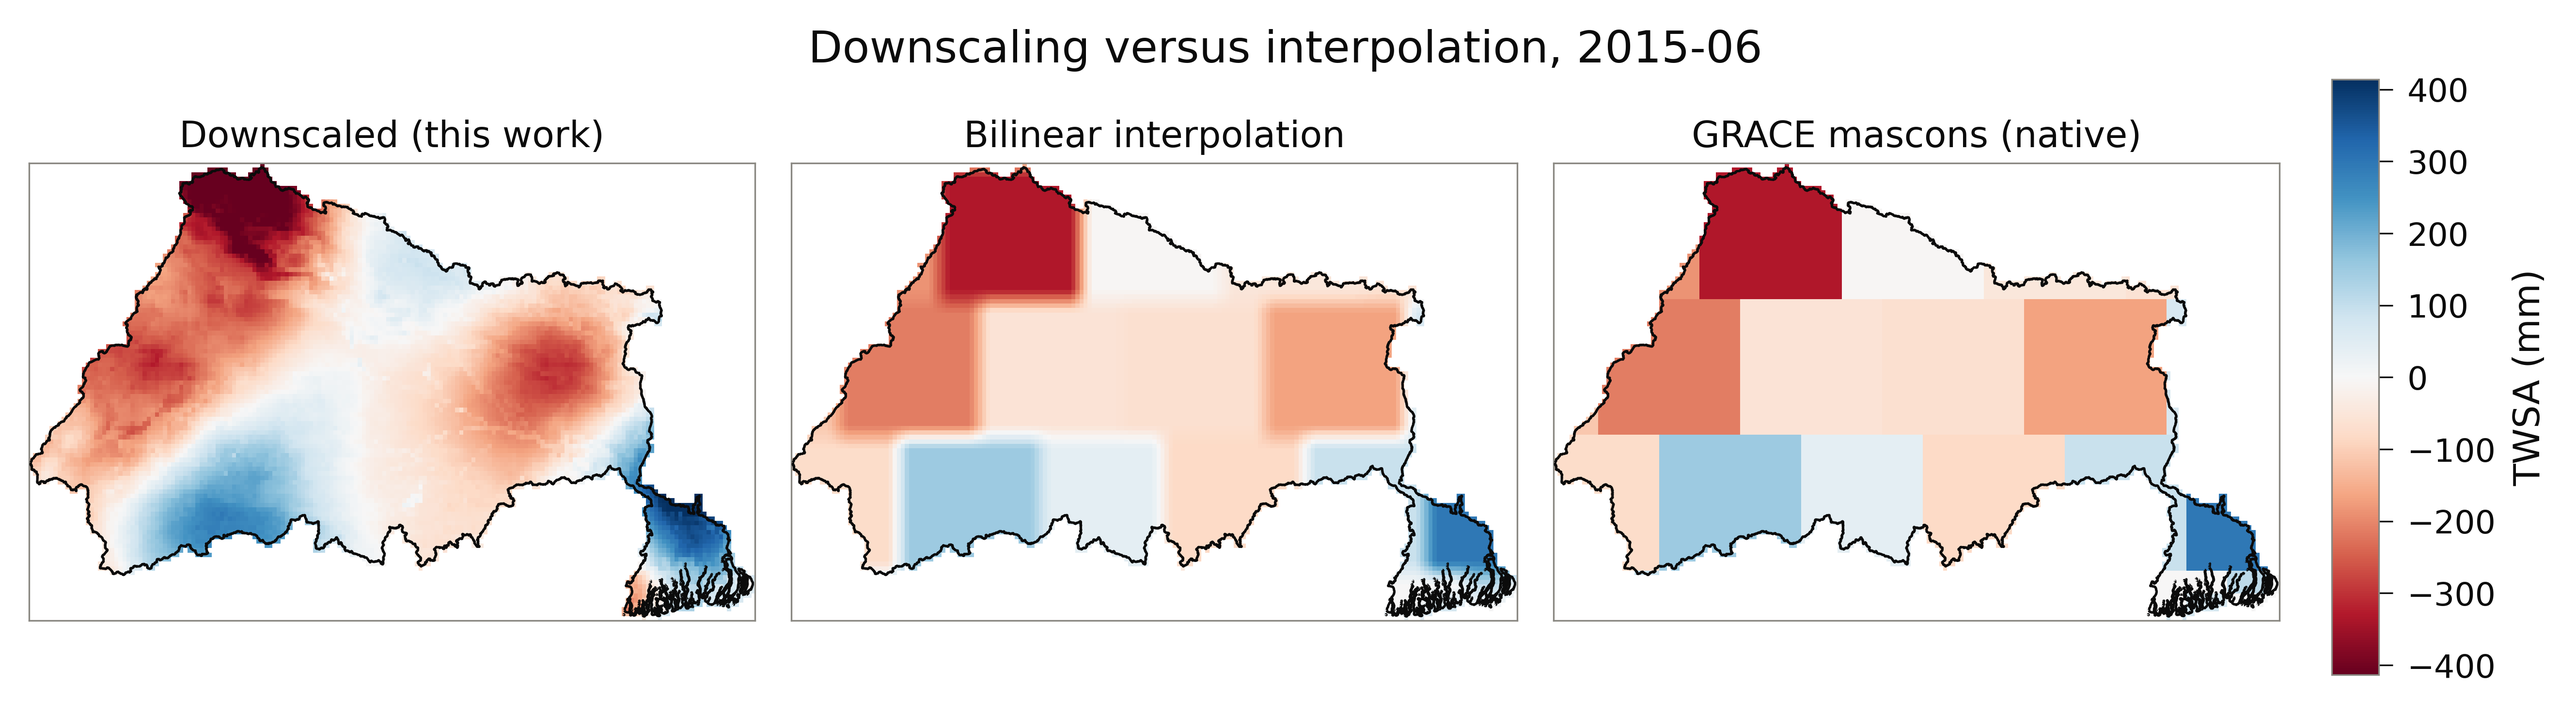
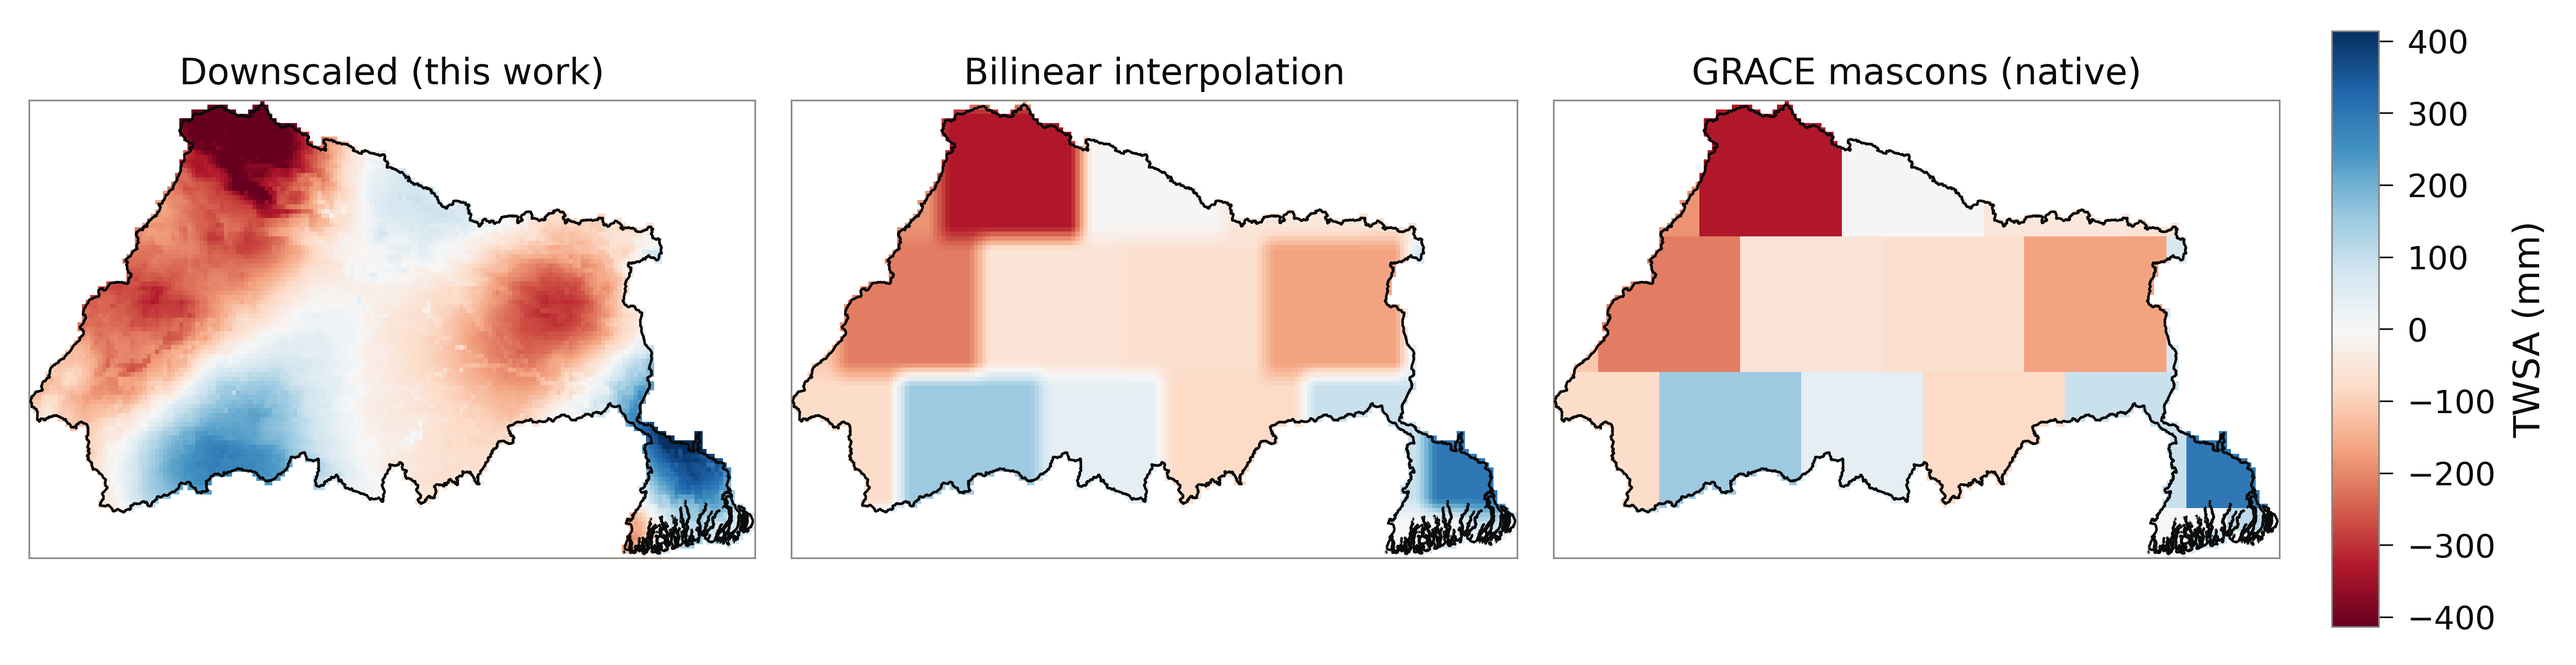
Citation and fig updates

diff --git a/figures/make_fig6_seasonal_cycle.py b/figures/make_fig6_seasonal_cycle.py
@@ -1,0 +1,83 @@
+"""
+Figure 6 -- the seasonal cycle, as the one file the journal takes.
+
+WHY THIS SCRIPT EXISTS
+----------------------
+Fig. 6 is two plates drawn by two different pipeline steps: the basin-mean
+annual cycle by `main/downscale_annual_cycle.py`, and the 0.1 degree seasonal
+means by `main/generate_gridded_maps.py`. The manuscript places them one above
+the other under a single caption ("Upper: ... Lower: ..."), but the journal
+wants one file per figure. This script stacks the two rendered plates into that
+file.
+
+WHY STACK PIXELS RATHER THAN REDRAW
+-----------------------------------
+Redrawing both plates on one canvas would mean a third copy of two plotting
+routines, and a third copy is how the figure and its sources drift apart.
+Stacking the rendered PNGs means Fig. 6 is, pixel for pixel, the two plates the
+pipeline writes. Both are rendered at the same DPI and are within 4% of each
+other in width; the lower plate is resampled to the upper one's width, so the
+two share left and right edges as they do in the manuscript.
+
+USAGE
+-----
+    python make_fig6_seasonal_cycle.py
+
+Run after the pipeline has written both source plates.
+"""
+
+from __future__ import annotations
+
+import os
+import sys
+
+from PIL import Image
+
+HERE = os.path.dirname(os.path.abspath(__file__))
+REPO = os.path.abspath(os.path.join(HERE, '..'))
+
+OUT = os.path.join(HERE, 'output')
+STEM = 'Fig6_seasonal_cycle'
+UPPER = os.path.join(REPO, 'Results', 'downscaling', 'Fig_annual_cycle_xgboost.png')
+LOWER = os.path.join(REPO, 'Results', 'figures', 'gridded_maps',
+                     'Fig_seasonal_mean_0p1deg.png')
+
+# White band between the plates, in inches at the plates' own DPI. Each plate
+# already carries matplotlib's 0.1 in tight-bbox pad, so this adds to 0.4 in.
+GAP_IN = 0.2
+
+
+def main() -> int:
+    for path in (UPPER, LOWER):
+        if not os.path.exists(path):
+            print(f'missing source plate: {path}', file=sys.stderr)
+            return 1
+    upper = Image.open(UPPER)
+    lower = Image.open(LOWER)
+    dpi = upper.info.get('dpi', (600, 600))
+    if round(dpi[0]) != round(lower.info.get('dpi', dpi)[0]):
+        print('the two plates are at different DPI; re-render them first',
+              file=sys.stderr)
+        return 1
+    upper, lower = upper.convert('RGB'), lower.convert('RGB')
+
+    width = upper.width
+    lower = lower.resize((width, round(lower.height * width / lower.width)),
+                         Image.LANCZOS)
+    gap = round(GAP_IN * dpi[0])
+
+    fig = Image.new('RGB', (width, upper.height + gap + lower.height), 'white')
+    fig.paste(upper, (0, 0))
+    fig.paste(lower, (0, upper.height + gap))
+
+    os.makedirs(OUT, exist_ok=True)
+    path = os.path.join(OUT, f'{STEM}.png')
+    fig.save(path, dpi=dpi)
+    print(f'written: {path}  ({fig.width} x {fig.height} px, '
+          f'{fig.width / dpi[0]:.2f} x {fig.height / dpi[0]:.2f} in at '
+          f'{dpi[0]:.0f} dpi)')
+    return 0
+
+
+if __name__ == '__main__':
+    raise SystemExit(main())

diff --git a/main/downscale_shap.py b/main/downscale_shap.py
@@ -718,13 +718,14 @@ def plot(field: pd.DataFrame, term: pd.DataFrame, columns: pd.DataFrame,
         ax.set_yticklabels(d[label_col], fontsize=6.5, color=SCI_INK)
         ax.set_xlabel('Share of total mean absolute attribution (%)', color=SCI_INK,
                       fontsize=7)
-        ax.set_title(title, fontsize=8, color=SCI_INK, loc='left')
+        ax.set_title(title, fontsize=8, fontweight='bold', color=SCI_INK, loc='left')
         return d
 
+    # Panel letters as (a)-(c) and bold, as on the other multi-panel plates.
     bars(ax_f, field, 'family', SCI_BLUE,
-         'a. By source field, signed contributions summed within family')
+         '(a) By source field, signed contributions summed within each field')
     bars(ax_t, term, 'family', SCI_BLUE,
-         'b. By term type, the partition a memory claim needs')
+         '(b) By term type, the partition a memory claim needs')
 
     # Panel (c) is coloured by source field so the credit-splitting is visible:
     # one field's columns appear in one colour, repeatedly, down the ranking.
@@ -734,7 +735,7 @@ def plot(field: pd.DataFrame, term: pd.DataFrame, columns: pd.DataFrame,
     cmap = {fam: SCI_COLORS[i % len(SCI_COLORS)] for i, fam in enumerate(order)}
     bars(ax_c, top, 'display', [cmap[f] for f in
                                 top.sort_values('share_pct').field_family],
-         f'c. Top {min(top_n, len(top))} individual columns, for comparison -- '
+         f'(c) Top {min(top_n, len(top))} individual columns; '
          'one field is split across several bars')
     handles = [plt.Rectangle((0, 0), 1, 1, color=cmap[f]) for f in order]
     ax_c.legend(handles, order, frameon=False, fontsize=6, loc='lower right')
@@ -748,9 +749,7 @@ def plot(field: pd.DataFrame, term: pd.DataFrame, columns: pd.DataFrame,
             ax.spines[side].set_color(SCI_MUTED)
         ax.tick_params(colors=SCI_MUTED, labelsize=6.5)
 
-    fig.suptitle(f'TWSA anomaly attribution, {pretty_model(model_name)} '
-                 '(TreeSHAP, association only)',
-                 fontsize=9, color=SCI_INK, x=0.012, ha='left', y=0.992)
+    # No title on the plate: the manuscript caption carries it (as for Figs. 3, 5 and 10).
     # Caption recorded, not drawn -- see figure_captions.
     figure_captions.record(
         out_path,

diff --git a/main/generate_gridded_maps.py b/main/generate_gridded_maps.py
@@ -267,7 +267,7 @@ def seasonal_maps(prod: Dict[str, object], out_dir: str) -> str:
         fields, titles, prod['lon'], prod['lat'], prod['gdf'],
         'TWSA (mm)', diverging=True,
         out_path=os.path.join(out_dir, 'Fig_seasonal_mean_0p1deg.png'),
-        ncols=4, suptitle='Seasonal mean terrestrial water storage anomaly, 0.1°',
+        ncols=4, suptitle=None,  # no title on the plate: the manuscript caption carries it
         footnote=f'{months[0]:%Y-%m} to {months[-1]:%Y-%m}.')
 
 
@@ -523,7 +523,7 @@ def uncertainty_maps(prod: Dict[str, object], out_dir: str) -> Optional[str]:
         fields, titles, prod['lon'], prod['lat'], prod['gdf'],
         'Uncertainty, 1σ (mm)', diverging=False,
         out_path=os.path.join(out_dir, 'Fig_uncertainty_components_0p1deg.png'),
-        ncols=4, suptitle='Per-pixel uncertainty, time-mean',
+        ncols=4, suptitle=None,  # no title on the plate: the manuscript caption carries it
         footnote='Within-mascon spread is a LOWER BOUND: GRACE resolves ~20 mascons here, '
                  'so no observation constrains sub-mascon structure.')
 
@@ -560,7 +560,7 @@ def method_comparison(prod: Dict[str, object], out_dir: str,
         fields, titles, prod['lon'], prod['lat'], prod['gdf'],
         'TWSA (mm)', diverging=True,
         out_path=os.path.join(out_dir, f'Fig_method_comparison_{when}.png'),
-        ncols=3, suptitle=f'Downscaling versus interpolation, {when}',
+        ncols=3, suptitle=None,  # no title on the plate: the manuscript caption carries it
         footnote='All three reproduce GRACE at mascon scale; they differ only in the '
                  'sub-mascon structure they imply.')
 

diff --git a/main/downscale_annual_cycle.py b/main/downscale_annual_cycle.py
@@ -192,9 +192,7 @@ def plot_annual_cycle(series: pd.DataFrame, model_name: str,
         ax.set_title(ttl, fontweight='bold', color=SCI_INK, loc='left',
                      fontsize=10, pad=8)
 
-    fig.suptitle(f'Basin annual cycle, leave-one-mascon-out ({model_name})',
-                 fontweight='bold', color=SCI_INK, fontsize=13, x=0.006,
-                 ha='left')
+    # No title on the plate: the manuscript caption carries it (as for Figs. 3, 5 and 10).
 
     p = os.path.join(out_dir, f'Fig_annual_cycle_{model_name}.png')
     fig.savefig(p, dpi=DPI, bbox_inches='tight', facecolor='white')

diff --git a/main/validate_wells_scales.py b/main/validate_wells_scales.py
@@ -465,8 +465,7 @@ def plot_metric_maps(obs: pd.DataFrame, out_dir: str) -> Optional[str]:
         ax.text(0.0, 1.015, spec['note'], transform=ax.transAxes,
                 fontsize=6, color=SCI_MUTED, ha='left', va='bottom')
 
-    fig.suptitle(f'Product skill against {len(per_well)} CGWB dug wells, well by well',
-                 fontweight='bold', color=SCI_INK, fontsize=10, x=0.006, ha='left')
+    # No title on the plate: the manuscript caption carries it (as for Figs. 3, 5 and 10).
     p = os.path.join(out_dir, 'well_metric_maps.png')
     figure_captions.record(
         p,

diff --git a/figures/make_fig5_lomo_metrics.py b/figures/make_fig5_lomo_metrics.py
@@ -1,5 +1,5 @@
 """
-Supplementary figure -- leave-one-mascon-out skill, metric by metric.
+Figure 5 -- leave-one-mascon-out skill, metric by metric.
 
 WHY THIS FIGURE EXISTS
 ----------------------

diff --git a/figures/README.md b/figures/README.md
@@ -159,6 +159,17 @@ the four unreadable. NSE is clipped at −1 with an arrow on the bar — two fol
 sit near −5 and −9, and unclipped they flatten the other seventeen into one
 colour.
 
+### Figure 6 — seasonal cycle (`make_fig6_seasonal_cycle.py`)
+
+The two plates the manuscript sets one above the other under a single caption,
+stacked into the one file the journal takes: the basin-mean annual cycle from
+`main/downscale_annual_cycle.py` above, the 0.1° seasonal means from
+`main/generate_gridded_maps.py` below. Nothing is redrawn — the script pastes the
+rendered PNGs, resampling the lower plate by 4% to the upper one's width so the
+two share edges — which keeps Fig. 6 pixel for pixel what the pipeline writes.
+It reads `Results/`, not downloads, and refuses to run if either plate is missing
+or the two are at different DPI.
+
 ### Graphical abstract (`make_graphical_abstract.py`)
 
 Built from the product rather than drawn around it. A claim and four held-out
@@ -250,6 +261,7 @@ the reason the content is four panels rather than six.
 | `output/Fig10_trend_regions.png` | 817 KB | 600 dpi |
 | `output/Fig5_lomo_metrics.pdf` | 339 KB | 185 mm wide |
 | `output/Fig5_lomo_metrics.png` | 657 KB | 600 dpi |
+| `output/Fig6_seasonal_cycle.png` | 2.0 MB | 600 dpi, 11.1 × 9.7 in; PNG only, as it is stacked from two rendered PNGs |
 | `output/Graphical_Abstract.pdf` | 315 KB | 11 × 4.4 in, Arial only |
 | `output/Graphical_Abstract.png` | 503 KB | 3300 × 1320 px at 300 dpi — **this is the file to submit** |
 | `output/Graphical_Abstract_preview_500x200.png` | 75 KB | gitignored; legibility proof, not for submission |
@@ -278,14 +290,16 @@ python figures/make_graphical_abstract.py
 python figures/make_fig3_holdouts.py        # Fig. 3
 python figures/make_fig10_trend_regions.py  # Fig. 10
 python figures/make_fig5_lomo_metrics.py    # Fig. 5
+python figures/make_fig6_seasonal_cycle.py  # Fig. 6
 ```
 
-Figures 3, 10 and S5 read results rather than downloads, so they run only after
+Figures 3, 5, 6 and 10 read results rather than downloads, so they run only after
 `main/run_full_pipeline.sh` has produced
 `Results/downscaling/twsa_0p1deg_monthly_xgboost.nc`,
-`twsa_trend_significance.nc` and `trend_by_region.csv`. Neither invents a
-number: `make_fig3_holdouts.py` re-runs the seeded month selection from
-`downscale_holdouts.py` against the released observation flag, and
+`twsa_trend_significance.nc` and `trend_by_region.csv` — and, for Fig. 6, the
+two plates it stacks. None invents a number: `make_fig3_holdouts.py` re-runs the
+seeded month selection from `downscale_holdouts.py` against the released
+observation flag, and
 `make_fig10_trend_regions.py` calls `trend_regions.summarise()` and
 `region_mask()` directly, and `make_fig5_lomo_metrics.py` checks its recomputed
 bias against the stored RMSE before drawing, so the figures, Supplementary Table
@@ -401,7 +415,7 @@ not optional:
   shown is the official one — see [the boundary requirement](#the-boundary-requirement).
 
 No other plate carries a third-party attribution: Figure 2 is drawn from nothing
-external, and Figures 3, 10 and S5 are drawn from the archived result files.
+external, and Figures 3, 5, 6 and 10 are drawn from the archived result files.
 
 A second copy of the captions used to live at `output/FIGURE_CAPTIONS.md`. It was
 removed because it drifted: it described Figure 2's colour key backwards — saying

diff --git a/CHANGELOG.md b/CHANGELOG.md
@@ -50,17 +50,30 @@ Section 5.5 are produced by `main/trend_regions.py`, which exists only from
   **`figures/make_fig5_lomo_metrics.py`** (Fig. 5). Fig. 10 takes its region
   masks from `trend_regions.region_mask()` rather than recomputing them, after
   an earlier version disagreed with the table by 40 pixels.
+- **`figures/make_fig6_seasonal_cycle.py`** (Fig. 6), which stacks the
+  annual-cycle and seasonal-mean plates into the single file the journal takes.
+  It pastes the rendered PNGs rather than redrawing them, so Fig. 6 stays what
+  the pipeline writes.
 
 ### Changed
 
 - **Manuscript title**, which gained *Anomalies*: "... Disaggregation of GRACE
   Terrestrial Water Storage **Anomalies** over the Ganges River Basin". TWSA is
   the quantity the model actually produces, and the title now says so.
+- **Paper citation** now points to the published article, *Groundwater for
+  Sustainable Development*, 101688,
+  <https://doi.org/10.1016/j.gsd.2026.101688>, in every README and
+  `DATA_README.md`, and `CITATION.cff` lists it under `references`.
 - Fig. 10 replaces the former trend map, carrying the same field with the
   quadrant boundaries drawn on it and a second panel showing the distribution of
   trends within each region.
 - `figures/README.md` now states the Figure 1 attribution requirement directly,
   in place of the removed caption file.
+- **No title on the manuscript plates.** Figs. 4, 6, 7, 8 and 9 lost the title
+  drawn above them, as Figs. 3, 5 and 10 already had: the caption carries it,
+  and a second copy is one more thing to drift. Fig. 8's panels are now labelled
+  (a)–(c), in bold, like the other multi-panel figures. Only the drawing changed;
+  every plotted value is the same.
 
 ### Removed
 
@@ -97,7 +110,7 @@ themselves rather than against the previous README.
   source archive, contradicting what the record itself asserts. Both now agree
   with `DATA_README.md`.
 - **Deposit manifest.** The file counts for `evaluation_tables.zip` (23 → 24) and
-  `figures.zip` (22 → 30) were stale for exactly the two archives this release
+  `figures.zip` (22 → 31) were stale for exactly the two archives this release
   rebuilds; `grace-grb-1.0.1.zip` and `trend_by_region.csv` had no manifest row
   at all; and a `covariate_gate_<model>.csv` row named a file that exists neither
   in the archive nor in the repository.

diff --git a/DATA_README.md b/DATA_README.md
@@ -152,7 +152,7 @@ contents.
 | `cogs_daily.zip` | the daily product as COGs, three bands (`twsa_flux`, `twsa_state`, `daily_method_spread`) | 9,497 rasters + `metadata.csv` + `upload.sh` |
 | `trend_field.zip` | the per-pixel trend in both formats: `twsa_trend_significance.nc` and a 9-band COG (`sen_slope`, `ols_slope`, `p_value`, `z_score`, `kendall_tau`, `variance_factor`, `significant`, `significant_fdr`, `tested`) | 4 |
 | `evaluation_tables.zip` | every validation table and the tuning record — see *Evaluation files* below. The fitted model (`model_<model>.joblib`) and the output-tree README ship with the code archive, not here | 24 |
-| `figures.zip` | per-pixel maps, diagnostic figures, and the manuscript figures | 30 |
+| `figures.zip` | per-pixel maps, diagnostic figures, and the manuscript figures | 31 |
 | `grace-grb-1.0.1.zip` | the source tree at the tagged release, GPL-3.0-only under its own `LICENSE`; also holds the fitted model (`model_<model>.joblib`) and the output-tree README | 149 |
 | `inputs_raw_gee.zip` | the raw Earth Engine downloads the ERA5-Land and GRACE cubes are built from; GLDAS tiles excluded | 4,680 |
 | `inputs_static_covariates.zip` | the nine static covariate rasters | 53 |
@@ -409,9 +409,14 @@ product with its own terms, this row is the one to revisit — and the safe
 substitute is already available, since every number in this release comes from
 the rasterised `basin_frac` mask rather than from the polygon itself.
 
-Code and data ship as one record, so there is no separate code DOI. The
-associated paper has been accepted in *Groundwater for Sustainable Development*;
-its DOI will be added to this record on publication.
+Code and data ship as one record, so there is no separate code DOI. Cite the
+associated paper alongside it:
+
+> Kaushik, P. R., Majumdar, S., Lenczuk, A., Sharma, Y. K., Banerjee, S., &
+> Thakur, P. K. (2026). Explainable AI-Based Spatial Downscaling and Water
+> Balance-Guided Temporal Disaggregation of GRACE Terrestrial Water Storage
+> Anomalies over the Ganges River Basin. *Groundwater for Sustainable
+> Development*, 101688. <https://doi.org/10.1016/j.gsd.2026.101688>
 
 ---
 

diff --git a/README.md b/README.md
@@ -20,7 +20,7 @@ the significance-masked trend. Source in [`gee/`](gee/).
 
 ### The paper
 
-Kaushik, P. R., Majumdar, S., Lenczuk, A., Sharma, Y. K., Banerjee, S., & Thakur, P. K. (2026). Explainable AI-Based Spatial Downscaling and Water Balance-Guided Temporal Disaggregation of GRACE Terrestrial Water Storage Anomalies over the Ganges River Basin. _Accepted in Groundwater for Sustainable Development._
+Kaushik, P. R., Majumdar, S., Lenczuk, A., Sharma, Y. K., Banerjee, S., & Thakur, P. K. (2026). Explainable AI-Based Spatial Downscaling and Water Balance-Guided Temporal Disaggregation of GRACE Terrestrial Water Storage Anomalies over the Ganges River Basin. _Groundwater for Sustainable Development_, 101688. https://doi.org/10.1016/j.gsd.2026.101688
 
 ### The data and code
 
@@ -168,9 +168,10 @@ grace-grb/
 │   ├── make_fig3_holdouts.py           # Fig. 3: what each temporal holdout withholds
 │   ├── make_fig10_trend_regions.py     # Fig. 10: trend field and its regional structure
 │   ├── make_fig5_lomo_metrics.py       # Fig. 5: leave-one-mascon-out skill per metric
+│   ├── make_fig6_seasonal_cycle.py     # Fig. 6: its two plates stacked into the one file the journal takes
 │   ├── make_graphical_abstract.py      # Graphical abstract, 2.5:1 for Elsevier; checks its own layout
 │   ├── data/                           # Generated: ~845 MB of basemaps, gitignored
-│   └── output/                         # Fig1, Fig2, Fig3, Fig5, Fig10, graphical abstract (PDF + PNG)
+│   └── output/                         # Fig1, Fig2, Fig3, Fig5, Fig10, graphical abstract (PDF + PNG); Fig6 (PNG)
 ├── gee/                                # Earth Engine explorer app — public, no account needed
 │   ├── README.md
 │   └── twsa_explorer.js

diff --git a/main/README.md b/main/README.md
@@ -393,7 +393,7 @@ model that tuning had made *worse* appeared as a negative number.
 ## Citation
 
 Kaushik, P. R., Majumdar, S., Lenczuk, A., Sharma, Y. K., Banerjee, S., &
-Thakur, P. K. (2026). *Explainable AI-Based Spatial Downscaling and Water
+Thakur, P. K. (2026). Explainable AI-Based Spatial Downscaling and Water
 Balance-Guided Temporal Disaggregation of GRACE Terrestrial Water Storage
-Anomalies over the Ganges River Basin.* Accepted, **Groundwater for Sustainable
-Development**.
+Anomalies over the Ganges River Basin. *Groundwater for Sustainable
+Development*, 101688. https://doi.org/10.1016/j.gsd.2026.101688

diff --git a/Data/README.md b/Data/README.md
@@ -247,4 +247,5 @@ https://doi.org/10.5281/zenodo.21745158 — concept DOI; cite the **version** DO
 in a paper.
 
 Cite the paper alongside it: Kaushik et al. (2026), _Groundwater for Sustainable
-Development_ (accepted). Full entry in the [root README](../README.md).
+Development_, 101688, https://doi.org/10.1016/j.gsd.2026.101688. Full entry in
+the [root README](../README.md).
